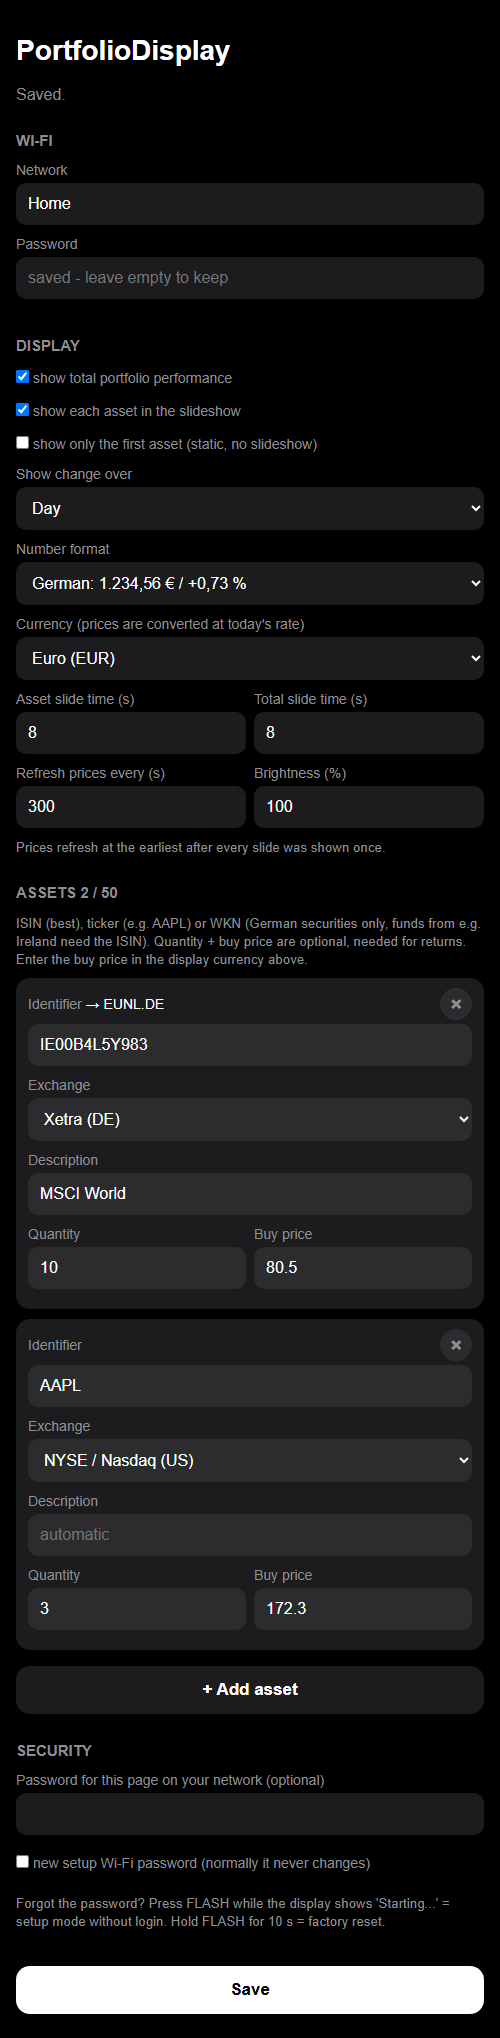
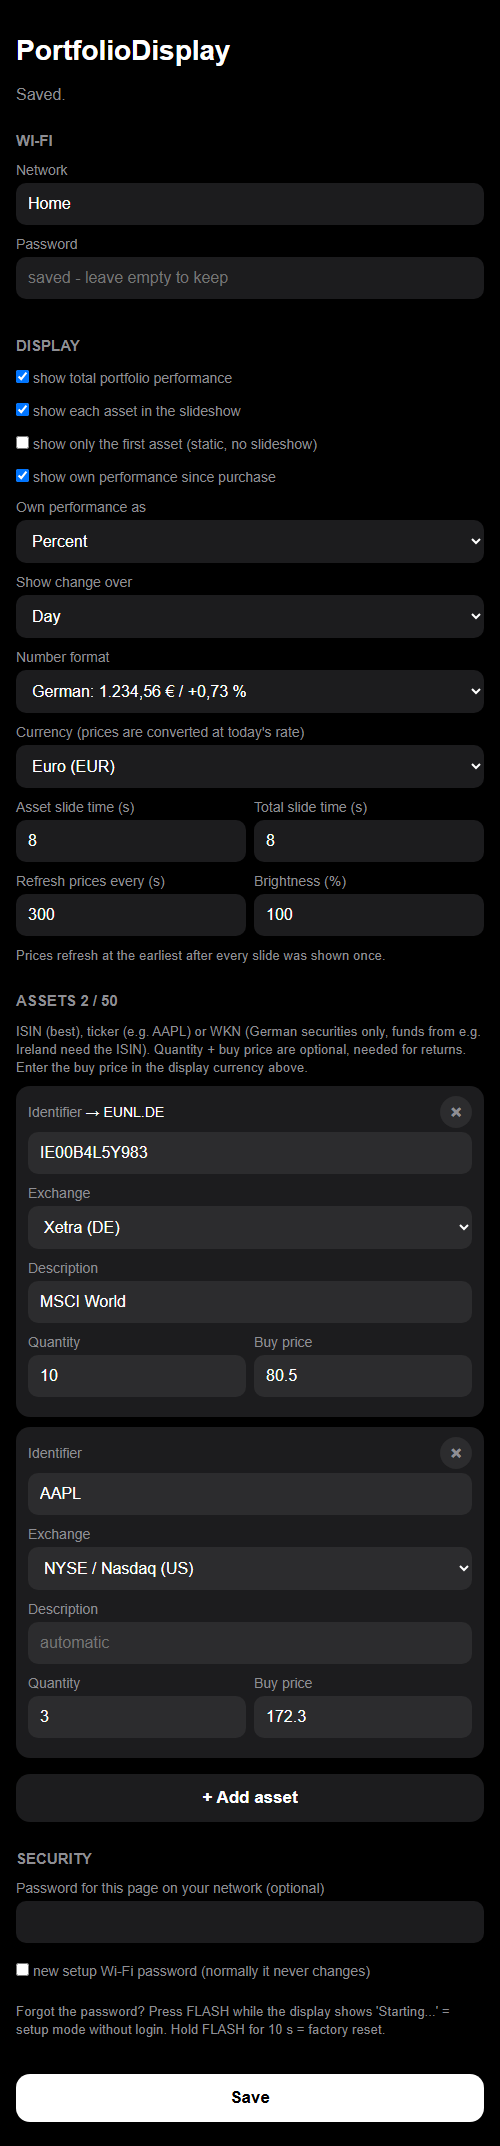
docs + readme images for the new screens

Changed region(s): [[0.03, 0.0, 0.99, 0.9892], [0.93, 0.9583, 0.96, 0.9892]]

diff --git a/docs/SETUP.md b/docs/SETUP.md
@@ -50,6 +50,8 @@ Every save restarts the device (about 15 s). If the phone stays in the same Wi-F
 | show total portfolio performance | adds a page with the total of all assets that have a quantity |
 | show each asset in the slideshow | one page per asset |
 | show only the first asset | static, no slideshow. Overrides the two switches above |
+| show own performance since purchase | adds the "Since purchase" line (default on) |
+| Own performance as | percent or amount in money |
 | Show change over | day / week / year to date / all time. Applies to every page |
 | Number format | German `1.234,56 €` (default) or English `€1,234.56` |
 | Currency | display currency (default EUR), converted at today's rate |
@@ -66,7 +68,7 @@ Every save restarts the device (about 15 s). If the phone stays in the same Wi-F
 | Identifier | `IE00B4L5Y983`, `AAPL`, `716460` | ISIN works best. WKN only for German securities. After the first refresh the resolved symbol is shown, e.g. `→ EUNL.DE` |
 | Exchange | Xetra, NYSE/Nasdaq, London, ... | `Automatic` prefers Xetra |
 | Description | `MSCI World` | optional, default is the name from Yahoo |
-| Quantity / Buy price | `10` / `80,50` | optional. Quantity is needed for the total page, the buy price for "Since purchase". Buy price in the display currency |
+| Quantity / Buy price | `10` / `80,50` | optional. Quantity is needed for the total page and the amount, the buy price for "Since purchase". Buy price in the display currency |
 
 **+ Add asset** adds a row, **×** removes it. Comma and point both work in numbers.
 
@@ -110,13 +112,25 @@ A factory reset clears Wi-Fi, assets and the page password. The setup Wi-Fi pass
 
 ## A5. What the display shows
 
-Every page has the same layout: name, change in percent over the chosen period (green = up, red = down), below it the price with a trend arrow. The TFT also shows the change in money and, with a buy price, the return since purchase. Dots at the bottom mark the slideshow position.
+Asset and total page look the same:
+
+1. name (or `Portfolio`)
+2. change in percent over the chosen period, green = up, red = down
+3. price (total: value of all holdings) with a trend arrow
+4. change in money over the period
+5. own performance since purchase, in percent or as amount (can be switched off)
+
+The OLED only fits lines 1-3. Dots at the bottom mark the slideshow position.
+
+The total page adds up all assets that have a quantity; the own performance uses those that also have a buy price. Assets without these values are left out, and a `*` behind the own performance shows that something was left out.
 
 | | 0.96" OLED | 2.8" TFT |
 |---|---|---|
 | asset, up | <img src="img/128x64/asset0.png" width="256"> | <img src="img/320x240/asset0.png" width="320"> |
 | asset, down | <img src="img/128x64/asset1.png" width="256"> | <img src="img/320x240/asset1.png" width="320"> |
 | portfolio total | <img src="img/128x64/total.png" width="256"> | <img src="img/320x240/total.png" width="320"> |
+| own performance as amount | | <img src="img/320x240/total_abs.png" width="320"> |
+| own performance off | | <img src="img/320x240/asset0_nogain.png" width="320"> |
 | only the first asset | <img src="img/128x64/single.png" width="256"> | <img src="img/320x240/single.png" width="320"> |
 | English number format | <img src="img/128x64/asset1_en.png" width="256"> | <img src="img/320x240/asset1_en.png" width="320"> |
 | brightness 40 % | | <img src="img/320x240/dimmed.png" width="320"> |

diff --git a/docs/ARCHITECTURE.md b/docs/ARCHITECTURE.md
@@ -125,7 +125,7 @@ Limits per refresh: `FETCH_BATCH` assets, `FETCH_MAX_S` seconds, 10 s per reques
 | Year to date | `ytd` / `1mo` | close at the end of last year |
 | All time | `max` / `3mo` | first open in the history |
 
-- Price and base are converted with today's rate, so the percentage shows the price move only.
+- Price and base are converted with today's rate, so the percentage shows the price move only. Rates are fetched after the batch (`fetch._late_fx`): right after a quote there isn't enough RAM for a second TLS handshake.
 - ISINs are resolved through the Yahoo search and cached in the asset record (`sym`, `yname`).
 - German WKNs become ISINs: `DE000` + WKN + check digit.
 
@@ -134,10 +134,10 @@ Limits per refresh: `FETCH_BATCH` assets, `FETCH_MAX_S` seconds, 10 s per reques
 `screens.py` turns numbers into text, `card.py` places it.
 
 - Headline: change in percent over the period, in the biggest font that fits.
-- Sub lines: price with trend arrow, change in money, return since purchase. Lines that don't fit are dropped.
+- Sub lines: price with trend arrow, change in money, own performance since purchase (% or amount, optional). Lines that don't fit are dropped.
 - Each line comes as a list of variants from long to short, the first one that fits is used.
 - Two size classes: small (width < 200 or height < 160) and big. Nothing ever scrolls.
-- The portfolio total treats all assets with a quantity as one position.
+- The portfolio total treats all assets with a quantity as one position, the own performance only those with a buy price. Left-out assets (no values, no exchange rate) put a `*` behind the own performance.
 - Brightness: OLED contrast or TFT backlight pin if available, else the palette is darkened.
 
 ## Portal
@@ -155,7 +155,7 @@ The form is a static file. A script loads `/cfg.json`, fills the fields and clon
 
 | File | Content | Factory reset |
 |---|---|---|
-| `/settings.json` | `ssid`, `show_total`, `show_assets`, `single`, `period`, `numfmt`, `cur`, `slide_s`, `total_s`, `fetch_s`, `bright` | removed |
+| `/settings.json` | `ssid`, `show_total`, `show_assets`, `single`, `show_gain`, `gain`, `period`, `numfmt`, `cur`, `slide_s`, `total_s`, `fetch_s`, `bright` | removed |
 | `/assets.jsonl` | per line: `id`, `ex`, `name`, `qty`, `buy`, `sym`, `yname` | removed |
 | `/prices.bin` | per asset: price, base (f32), valid flag, currency, last error | removed |
 | `/secret.bin` | AES: Wi-Fi password, salted hash of the page password | removed |

diff --git a/README.md b/README.md
@@ -2,11 +2,18 @@
 
 A small desk display for your stocks, ETFs and funds. MicroPython on an ESP8266 with a 2.8" TFT or a 0.96" OLED, configured from your phone.
 
-<img src="docs/img/320x240/asset0.png" width="320"> <img src="docs/img/128x64/asset0.png" width="256">
+| Your portfolio | One asset | Down day |
+|---|---|---|
+| <img src="docs/img/320x240/total.png" width="280"> | <img src="docs/img/320x240/asset0.png" width="280"> | <img src="docs/img/320x240/asset1.png" width="280"> |
+
+| 0.96" OLED | Setup by QR code | Settings from the phone |
+|---|---|---|
+| <img src="docs/img/128x64/asset0.png" width="280"> | <img src="docs/img/320x240/setup0.png" width="280"> | <img src="docs/img/portal/display.png" width="200"> |
 
 ## Features
 
 - Change in percent as the headline, price below, green/red with a trend arrow
+- Own performance since purchase in percent or money, for every asset and the whole portfolio
 - Slideshow over your assets, optional portfolio total page, or one static asset
 - Change over day, week, year to date or all time
 - ISIN, ticker or German WKN; Xetra and the common international exchanges
